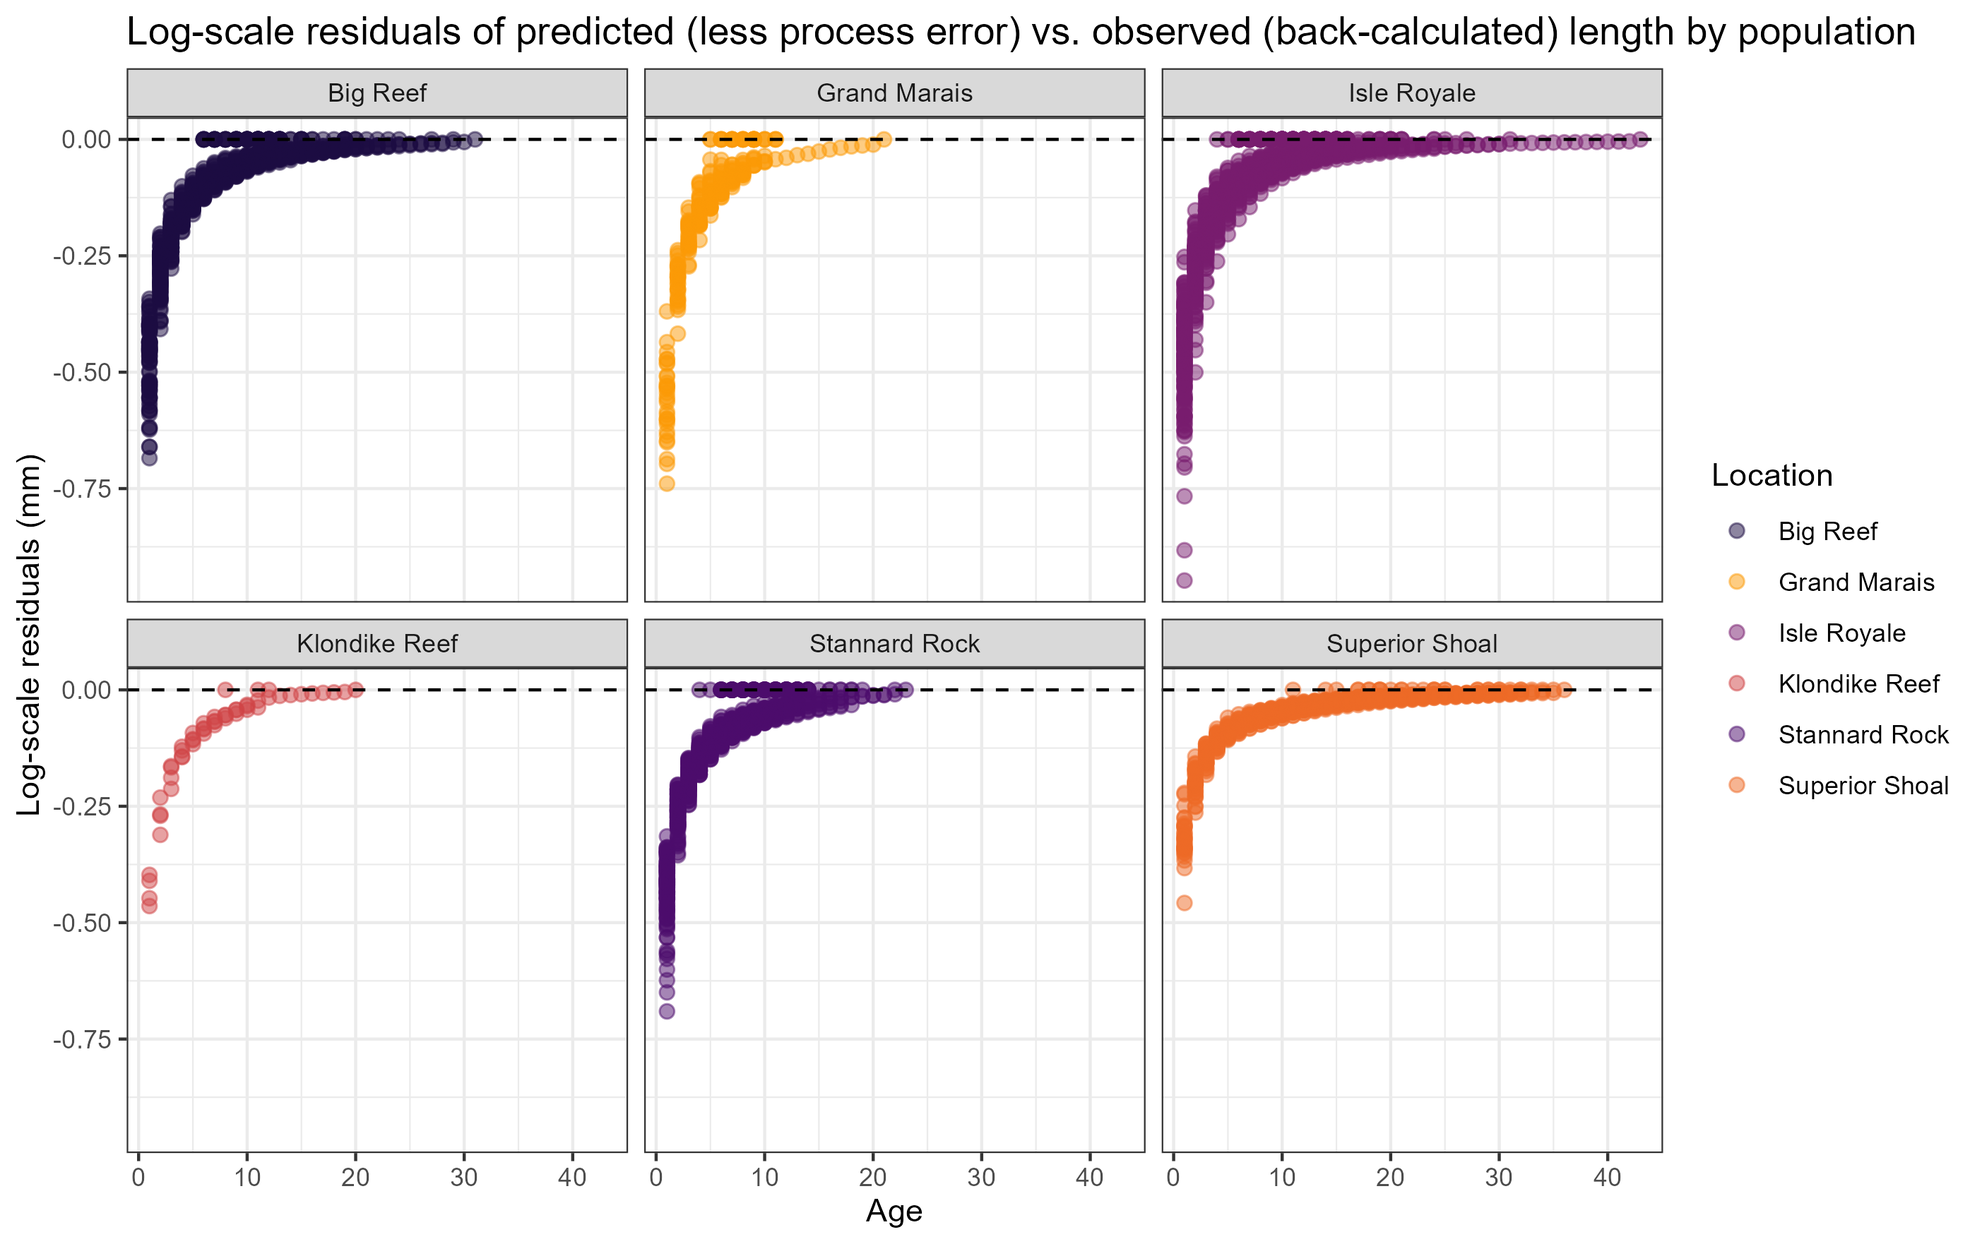
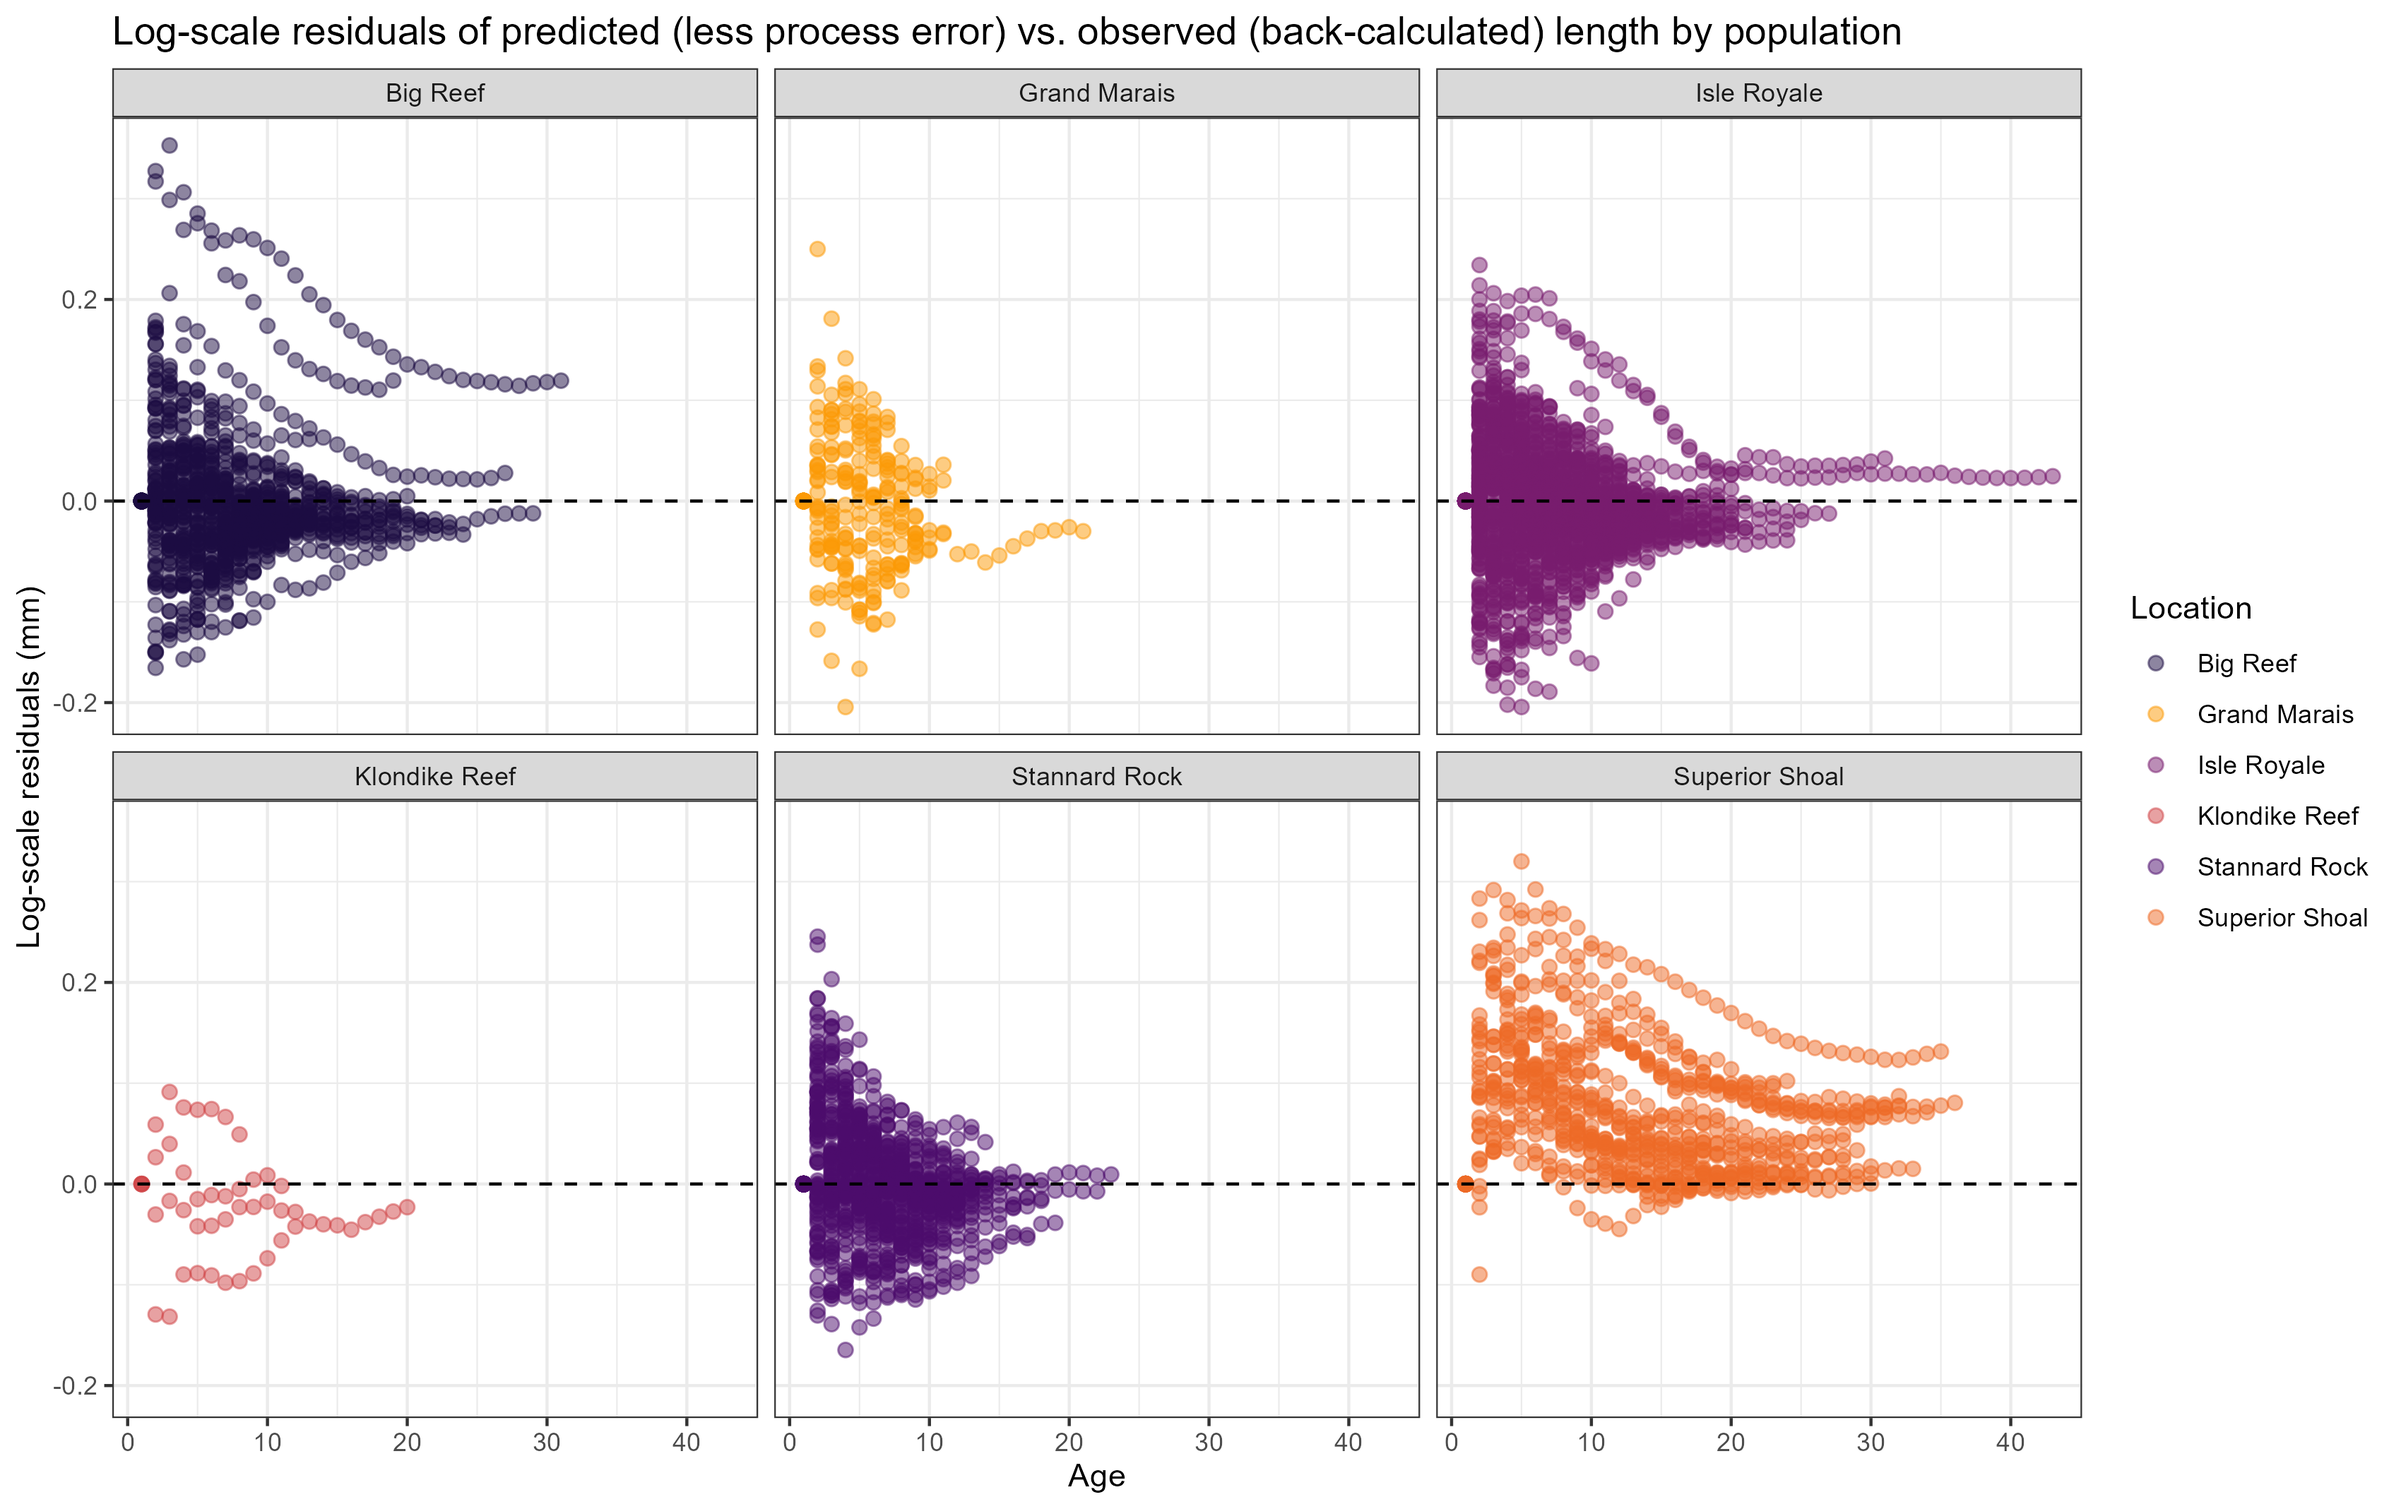
reconfigures residuals plot with no process error

diff --git a/TMB/ltSup_MVN_BVN_v2_no_PE.cpp b/TMB/ltSup_MVN_BVN_v2_no_PE.cpp
@@ -1,0 +1,233 @@
+#include <TMB.hpp>  // Links in the TMB libraries
+# include <vector> // to try the .insert in sim section
+
+template<class Type>
+Type objective_function<Type>::operator() ()
+{
+  
+  DATA_IVECTOR(ind_idx);  // nrec long with values indicating fish id
+  DATA_IVECTOR(pop_idx_ind);  // nind long with values indicating pop id, created on R side
+  DATA_IVECTOR(ind_idx_sim); // for simulating the balanced dataset
+  DATA_IVECTOR(pop_idx_ind_sim); // for simulating the balanced dataset
+  DATA_INTEGER(npop);
+  DATA_INTEGER(npop_sim);
+  DATA_INTEGER(nrec);
+  DATA_INTEGER(nind);
+  DATA_VECTOR(L); // obsv length
+  DATA_VECTOR(age);
+  DATA_INTEGER(maxage); // for simulation, maximum age you want to simulate to
+  DATA_VECTOR(age_sim);
+  
+  PARAMETER(log_sigma); // for residuals
+  PARAMETER(log_sigma_log_Linf_devs); // for individual-level deviations
+  PARAMETER(log_sigma_log_K_devs);
+  PARAMETER(log_sigma_log_L1_devs);
+  PARAMETER(log_sigma_log_Linf_hyper_devs); // for population-level deviations
+  PARAMETER(log_sigma_log_K_hyper_devs);
+  PARAMETER(log_sigma_log_L1_hyper_devs);
+  PARAMETER(log_Linf_hyper); // hyper population means
+  PARAMETER(log_K_hyper);
+  PARAMETER(log_L1_hyper);
+  PARAMETER(theta1); // for among-individuals corr matrix, Linf/K
+  PARAMETER(theta2);
+  PARAMETER(theta3);
+  PARAMETER(theta4);
+  PARAMETER(log_sigma_PE); // process error variance
+  PARAMETER_VECTOR(log_Linf_devs); // nind, for individual-level deviations; random effects
+  PARAMETER_VECTOR(log_K_devs);
+  PARAMETER_VECTOR(log_L1_devs);
+  PARAMETER_VECTOR(log_Linf_hyper_devs); // npop, for population-level deviations; random effects
+  PARAMETER_VECTOR(log_K_hyper_devs);
+  PARAMETER_VECTOR(log_L1_hyper_devs);
+  PARAMETER_VECTOR(log_PE); // process error; random effects
+
+  // back transform parameters
+  Type sigma = exp(log_sigma);
+  Type sigma_PE = exp(log_sigma_PE);
+  vector<Type> PE = exp(log_PE); // process error
+  
+  vector<Type> Linf_pop(nind); // vector for storing estimated population Linfs from individual level deviations
+  vector<Type> K_pop(nind); // vector for storing estimated population Ks from individual level deviations
+  vector<Type> L1_pop(nind); // vector for storing estimated population L1s from individual level deviations
+
+  vector<Type> L_hat(nrec); // store predicted growth at age
+  vector<Type> L_hat_tmp(nrec); // for storing temporary L_hat for logsitic smoothing function
+  vector<Type> resid(nrec);
+  vector<Type> log_resid(nrec); 
+  vector<Type> delta(nrec); // store increments
+
+  vector<Type> L_hat_tmp_no_PE(nrec);
+  vector<Type> L_hat_no_PE(nrec);
+  Type w2_no_PE = 0;
+  Type w1_no_PE = 0;
+
+  
+  // add in individual- and population-level deviations to the hyper-population mean for each
+  // vb parameter
+  for(int i=0; i<nind; i++){
+    Linf_pop(i) = exp(log_Linf_hyper + log_Linf_hyper_devs(pop_idx_ind(i)) + log_Linf_devs(i));
+    L1_pop(i) = exp(log_L1_hyper + log_L1_hyper_devs(pop_idx_ind(i)) + log_L1_devs(i));
+    K_pop(i) = exp(log_K_hyper + log_K_hyper_devs(pop_idx_ind(i)) + log_K_devs(i));
+  }
+
+  Type w2 = 0; // weights for logistic smoothing function
+  Type w1 = 1;
+  Type alpha = 2; // slope for logistic smoothing function, fixed
+        
+  // grow the fish
+  for(int i=0; i<nrec; i++){
+    if(age(i) == 1){
+      L_hat(i) = L1_pop(ind_idx(i));
+      L_hat_no_PE(i) = L1_pop(ind_idx(i));
+    }else{
+      // calculate L_hat_tmp to then use in weighted average
+      delta(i-1) = (Linf_pop(ind_idx(i)) - L_hat(i-1)) * (1-exp(-K_pop(ind_idx(i))));
+      L_hat_tmp(i) = L_hat(i-1) + (delta(i-1) * PE(i));
+
+      L_hat_tmp_no_PE(i) = L_hat_no_PE(i-1) + delta(i-1);
+      w2_no_PE = 1/(1+exp(-alpha*((0.99*Linf_pop(ind_idx(i))) - L_hat_tmp_no_PE(i))));
+      w1_no_PE = 1 - w2_no_PE;
+      L_hat_no_PE(i) = (w2_no_PE * L_hat_tmp_no_PE(i)) + (w1_no_PE * Linf_pop(ind_idx(i)));
+
+      // set the weights for logistic smoothing function, based on distance
+      // from Linf (for that individual) and the calculated L_hat (for this time step)
+      w2 = 1/(1+exp(-alpha*((0.99*Linf_pop(ind_idx(i))) - L_hat_tmp(i)))); // condition
+      w1 = 1 - w2;
+      // calculate L_hat (real) using weighted average to prevent value from
+      // exceeding Linf
+      L_hat(i) = (w2 * L_hat_tmp(i)) + (w1 * Linf_pop(ind_idx(i)));
+    }
+  }
+
+  // Calculate residuals
+  resid = L - L_hat;
+  log_resid = log(L) - log(L_hat);
+  
+  // backtransform sd parameters for individual growth parameters
+  Type sigma_log_Linf_devs = exp(log_sigma_log_Linf_devs);
+  Type sigma_log_K_devs = exp(log_sigma_log_K_devs);
+  Type sigma_log_L1_devs = exp(log_sigma_log_L1_devs);
+
+  // backtransform sd parameters for pop-level distribution
+  Type sigma_log_Linf_hyper_devs = exp(log_sigma_log_Linf_hyper_devs);
+  Type sigma_log_K_hyper_devs = exp(log_sigma_log_K_hyper_devs);
+  Type sigma_log_L1_hyper_devs = exp(log_sigma_log_L1_hyper_devs);
+
+
+  /////////////////////////////////////////////////////////////////
+  //// Multivariate Normal Calculations //////
+  
+  // CALCULATE MULTIVARIATE CORRELATION OF K/Linf/L1 at individual level//
+  
+  using namespace density;
+  
+  int n=3; //three parameters
+  
+  // combine deviations into a matrix for later calculations
+  matrix<Type> all_devs(n,nind);
+  all_devs.row(0)=log_Linf_devs;
+  all_devs.row(1)=log_K_devs;
+  all_devs.row(2)=log_L1_devs;
+  
+  // construct unstructured density object for trivariate normal distribution
+  vector<Type> thetas(n); // vector of correlation parameters
+  thetas(0) = theta1; // Linf/K
+  thetas(1) = theta2; // Linf/L1
+  thetas(2) = theta3; // K/L1
+  vector<Type> sds(n); // vector of variance parameters
+  sds(0) = sigma_log_Linf_devs;
+  sds(1) = sigma_log_K_devs;
+  sds(2) = sigma_log_L1_devs;
+
+  // Use UNSTRUCTURED_CORR_t to calculate MVN density object
+  // as a function of thetas to use in likelihood calculation
+  // for L1, K, and Linf
+  UNSTRUCTURED_CORR_t<Type> my_mvn(thetas);
+  Type nll_mvn = 0;
+  
+  // use the MVN object to calculate the probability density of each trio of deviations from the mean
+  for(int i=0; i<nind; i++){
+    nll_mvn += VECSCALE(my_mvn, sds)(all_devs.col(i));
+  }
+
+  // BVN calculation for population parameters
+
+  // combine deviations into a matrix for later calculations
+  int np = 2; // two parameters
+  
+  matrix<Type> all_pops(np,npop);
+  all_pops.row(0) = log_Linf_hyper_devs;
+  all_pops.row(1) = log_K_hyper_devs;
+
+  vector<Type> thetas_hyper(np*(np-1)/2);
+  thetas_hyper(0) = theta4;
+  vector<Type> sds_hyper(np);
+  sds_hyper(0) = sigma_log_Linf_hyper_devs;
+  sds_hyper(1) = sigma_log_K_hyper_devs;
+
+  UNSTRUCTURED_CORR_t<Type> my_mvn_hyper(thetas_hyper);
+  Type nll_mvn_hyper = 0;
+
+  for(int i=0; i<npop; i++){
+    nll_mvn_hyper += VECSCALE(my_mvn_hyper, sds_hyper)(all_pops.col(i));
+  }
+
+  // uncorreated
+  Type nll_L1_hyper = -sum(dnorm(log_L1_hyper_devs, 0,
+                                   sigma_log_L1_hyper_devs, true));
+  
+  // NLL for the observed and expected increments (true length)
+  Type nll_length = -sum(dnorm(log(L), (log(L_hat)- pow(sigma,2)/2),
+                              sigma, true));
+  // NLL for process error
+  // back-transformed expected value to be 0 -> avg length, not median length
+
+  Type nll_pe = -sum(dnorm(log(PE),
+                           -(pow(sigma_PE,2)/2), sigma_PE, true));
+
+  // Get the full log likelihood
+  Type f = nll_length + nll_pe + nll_mvn + nll_mvn_hyper + nll_L1_hyper;
+
+
+
+  REPORT(sds);
+  REPORT(sds_hyper);
+  REPORT(all_devs);
+  REPORT(sigma_log_L1_devs);
+  REPORT(sigma_log_L1_hyper_devs);
+  REPORT(sigma_log_K_hyper_devs);
+  REPORT(sigma_log_Linf_hyper_devs);
+  REPORT(my_mvn.cov());
+  REPORT(my_mvn_hyper.cov());
+  REPORT(PE);
+  REPORT(L);
+  REPORT(L_hat);
+  REPORT(L_hat_tmp);
+  REPORT(resid);
+  REPORT(age);
+  REPORT(f);
+  REPORT(nll_pe);
+  REPORT(sigma_PE);
+  REPORT(sigma);
+  REPORT(nll_mvn);
+  REPORT(delta);
+  REPORT(Linf_pop);
+  REPORT(K_pop);
+  REPORT(L1_pop);
+  REPORT(log_L1_hyper);
+  REPORT(log_Linf_hyper);
+  REPORT(log_K_hyper);
+  REPORT(log_Linf_devs);
+  REPORT(log_K_devs);
+  REPORT(log_L1_devs);
+  REPORT(log_Linf_hyper_devs);
+  REPORT(log_K_hyper_devs);
+  REPORT(log_L1_hyper_devs);
+  REPORT(log_PE);
+  REPORT(L_hat_no_PE);
+
+
+  
+  return f;
+  
+}
